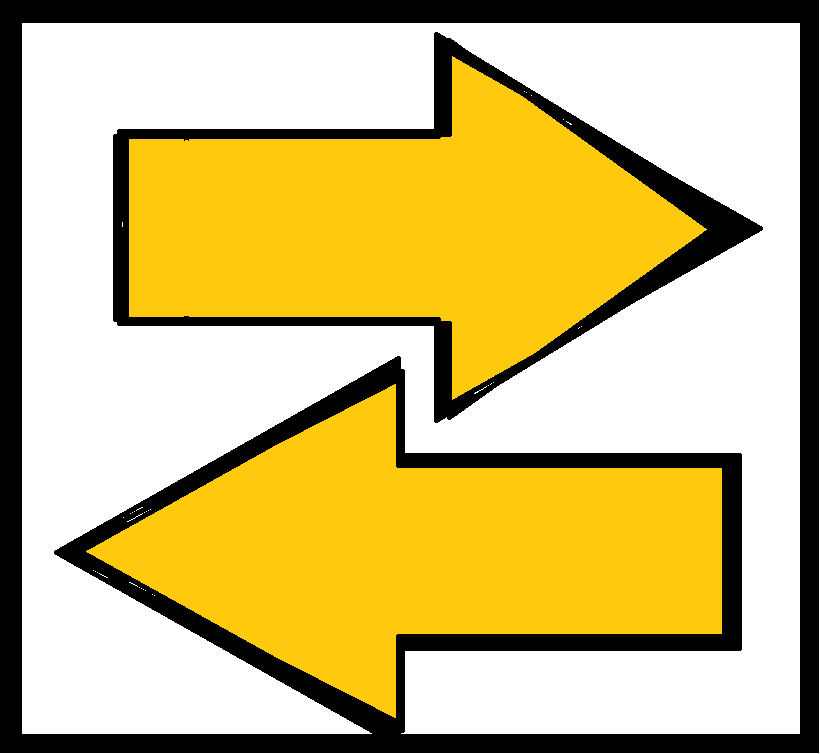
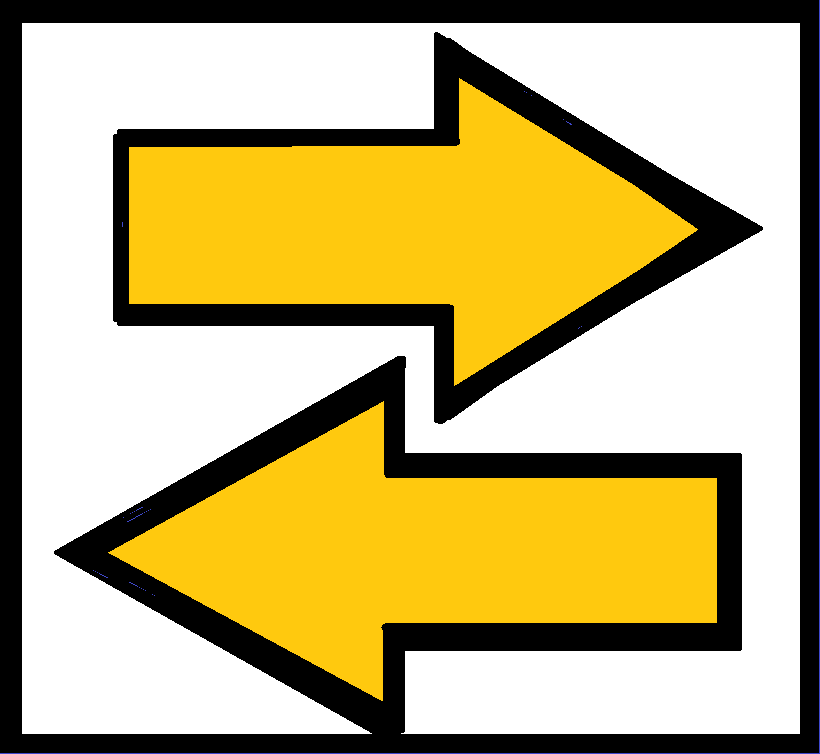
Uppdaterat pickups ikoner

diff --git a/src/gameobjects/Player.java b/src/gameobjects/Player.java
@@ -54,7 +54,12 @@ public class Player extends GameObject {
         // Draw reverse icon when reversed
         if(reversed) image = "TransparentReversePickup.png";
         // Draw rectangle around player when invincible
+        if(invincible) image = "TransparentInvinciblePickup.png";
         if (invincible) g.drawRect(x - 40, y - 40, width + 80, height + 80);
+            
+        
+        
+        
         if (image != null) g.drawImage(Resources.getImage(image), x - 10, y - 10, width + 20, height + 20, null);
 
         // Display Player name

diff --git a/src/gameobjects/pickups/SlowEnemiesPickup.java b/src/gameobjects/pickups/SlowEnemiesPickup.java
@@ -54,7 +54,7 @@ public class SlowEnemiesPickup extends InstantPickup {
                 if (!gameObject.equals(player)) {
                     int speed = gameObject.getSpeed();
                     gameObject.setSpeed((int) (speed * 0.5));
-                    ((Player) gameObject).setImage("SlowPickupTransparent.png");
+                    ((Player) gameObject).setImage("TransparentSelfSlowPickup.png");
                 }
             }
         }

diff --git a/src/gameobjects/pickups/SelfSlowPickup.java b/src/gameobjects/pickups/SelfSlowPickup.java
@@ -51,7 +51,7 @@ public class SelfSlowPickup extends Pickup {
         int speed = player.getSpeed();
         player.setSpeed((int) (speed * 0.5));
 
-        player.setImage("SlowPickupTransparent.png");
+        player.setImage("TransparentSelfSlowPickup.png");
     }
 
     /**
